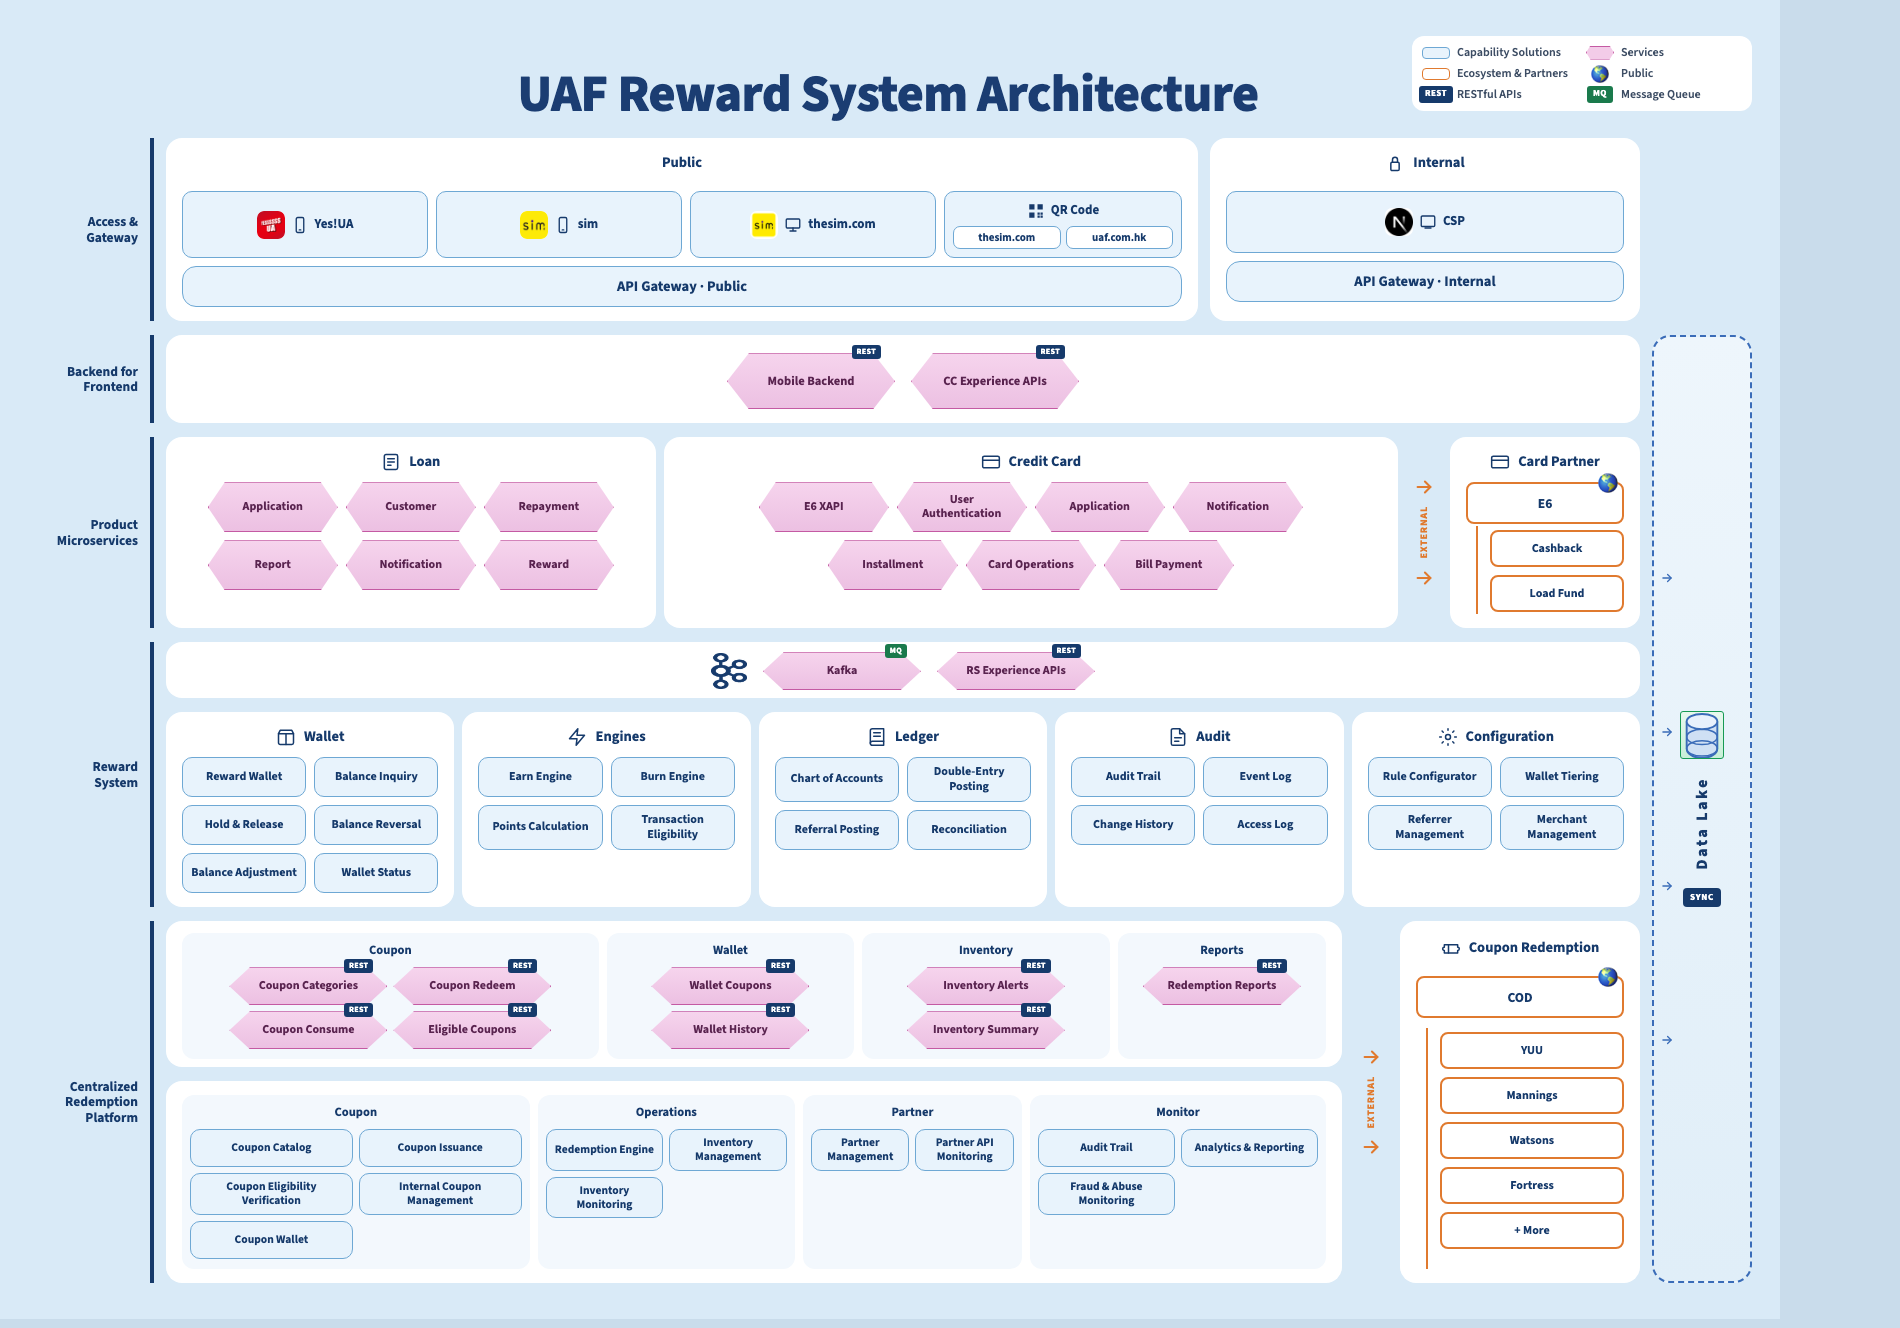
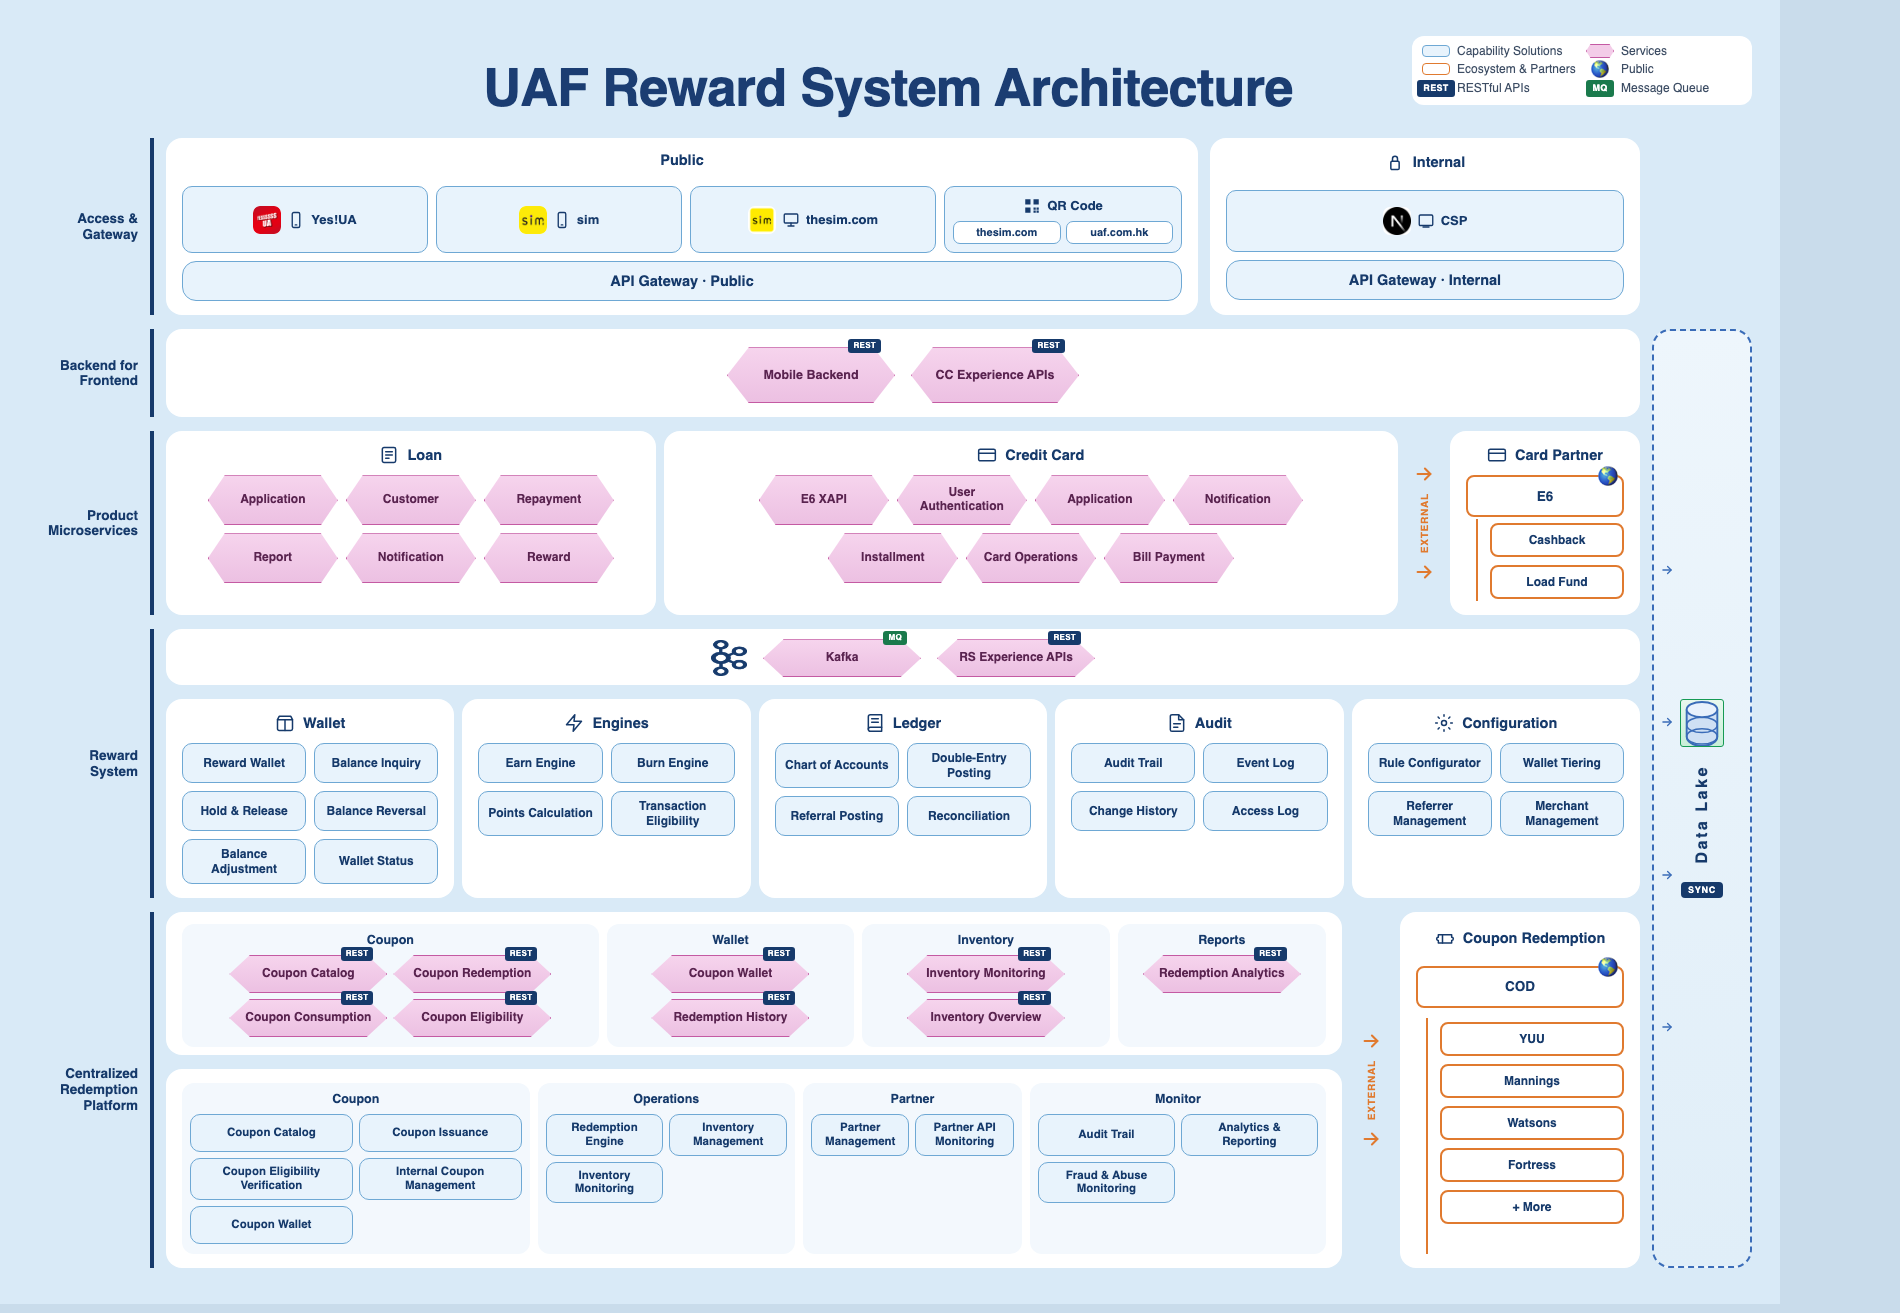
docs(decks): retune CRP REST integration labels

diff --git a/docs/decks/uaf-rewards-logical-architecture.html b/docs/decks/uaf-rewards-logical-architecture.html
@@ -329,30 +329,30 @@
             <div class="rest-g">
               <h4>Coupon</h4>
               <div class="hexrow">
-                <div class="svcw"><div class="svc">Coupon Categories</div><span class="badge-rest">REST</span></div>
-                <div class="svcw"><div class="svc">Coupon Redeem</div><span class="badge-rest">REST</span></div>
-                <div class="svcw"><div class="svc">Coupon Consume</div><span class="badge-rest">REST</span></div>
-                <div class="svcw"><div class="svc">Eligible Coupons</div><span class="badge-rest">REST</span></div>
+                <div class="svcw"><div class="svc">Coupon Catalog</div><span class="badge-rest">REST</span></div>
+                <div class="svcw"><div class="svc">Coupon Redemption</div><span class="badge-rest">REST</span></div>
+                <div class="svcw"><div class="svc">Coupon Consumption</div><span class="badge-rest">REST</span></div>
+                <div class="svcw"><div class="svc">Coupon Eligibility</div><span class="badge-rest">REST</span></div>
               </div>
             </div>
             <div class="rest-g">
               <h4>Wallet</h4>
               <div class="hexrow">
-                <div class="svcw"><div class="svc">Wallet Coupons</div><span class="badge-rest">REST</span></div>
-                <div class="svcw"><div class="svc">Wallet History</div><span class="badge-rest">REST</span></div>
+                <div class="svcw"><div class="svc">Coupon Wallet</div><span class="badge-rest">REST</span></div>
+                <div class="svcw"><div class="svc">Redemption History</div><span class="badge-rest">REST</span></div>
               </div>
             </div>
             <div class="rest-g">
               <h4>Inventory</h4>
               <div class="hexrow">
-                <div class="svcw"><div class="svc">Inventory Alerts</div><span class="badge-rest">REST</span></div>
-                <div class="svcw"><div class="svc">Inventory Summary</div><span class="badge-rest">REST</span></div>
+                <div class="svcw"><div class="svc">Inventory Monitoring</div><span class="badge-rest">REST</span></div>
+                <div class="svcw"><div class="svc">Inventory Overview</div><span class="badge-rest">REST</span></div>
               </div>
             </div>
             <div class="rest-g">
               <h4>Reports</h4>
               <div class="hexrow">
-                <div class="svcw"><div class="svc">Redemption Reports</div><span class="badge-rest">REST</span></div>
+                <div class="svcw"><div class="svc">Redemption Analytics</div><span class="badge-rest">REST</span></div>
               </div>
             </div>
           </div>
